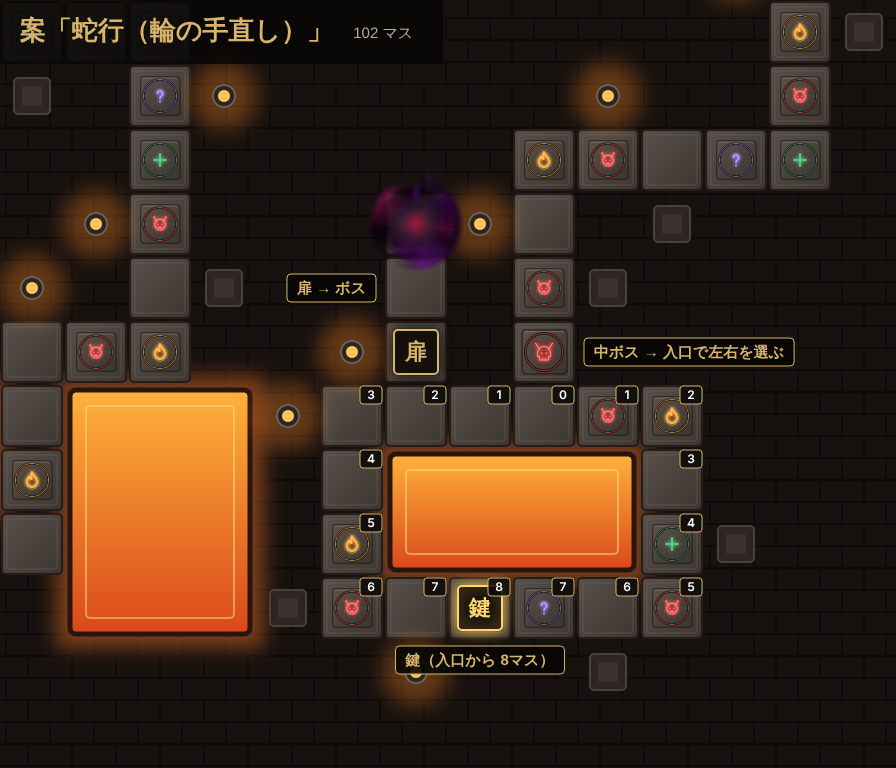
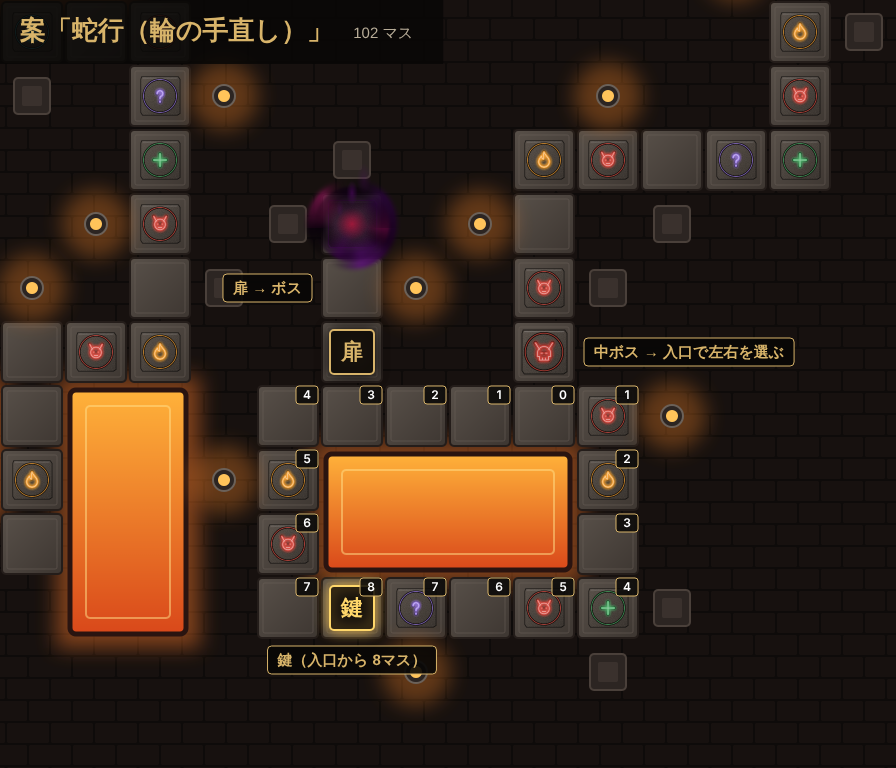
戦闘の曲を開始前の待機から流す。輪の見本を左に1マス寄せる（入口と扉の前の間を2マスに）
Claude-Session: https://claude.ai/code/session_012hkhuRjXJoxGWxPSr8xzWQ

Changed region(s): [[0.1875, 0.1875, 0.625, 0.9062], [0.625, 0.5, 0.8438, 0.8438]]

diff --git a/src/scenes/GameScene.ts b/src/scenes/GameScene.ts
@@ -116,7 +116,8 @@ export class GameScene extends Phaser.Scene {
     (window as unknown as Record<string, unknown>).__battle = this.battle;
   }
   toList() { this.base = 'list'; this.overlays = []; }
-  toReady(e: EnemyDef) { this.enemy = e; this.base = 'ready'; this.overlays = []; this.newBattle(); }
+  toReady(e: EnemyDef) { this.enemy = e; this.base = 'ready'; this.overlays = []; this.battleSeq++; this.newBattle(); }
+  private battleSeq = 0;   // 戦闘の通し番号（戦闘の曲を、新しい戦闘ごとに頭から流すため）
   pop() {
     const closed = this.overlays.pop();
     if (closed === 'equip' && this.base === 'board' && this.run) {     // 入口で装備を変えた: アイテムの枠を作り直す
@@ -646,8 +647,9 @@ export class GameScene extends Phaser.Scene {
       const step = left <= 0.5 ? 1 : left <= 1.0 ? 2 : left <= 1.5 ? 3 : 0;
       if (step && step !== this.lastTick) { this.lastTick = step; this.snd.warnTick(step); }
     }
-    // BGM: 戦闘中（ポーズ中は止める）と、すごろくの盤面の上（メニューを開いていても流す）
-    this.snd.music(this.top === 'fight' ? 'battle' : this.base === 'board' ? 'dungeon' : null, this.top === 'fight' ? bt : this.run);
+    // BGM: 戦闘は開始前の待機から流す（ポーズ中は止める）。すごろくの盤面の上（メニューを開いていても流す）
+    const fighting = this.top === 'fight' || this.base === 'ready';
+    this.snd.music(fighting ? 'battle' : this.base === 'board' ? 'dungeon' : null, fighting ? this.battleSeq : this.run);
     this.enemyShake = Math.max(0, this.enemyShake - dt);
     this.ringPulse = Math.max(0, this.ringPulse - dt);
     this.hurt = Math.max(0, this.hurt - dt);

diff --git a/docs/design.md b/docs/design.md
@@ -235,7 +235,7 @@
 - 鍵がないときの盤面の案内は「鍵まで あと N マス」。鍵を持つと「扉まで」、開けると「ボスまで」。
 - 鍵を持っている間は、盤面の上の情報に「最深部の鍵」の札を出し、鍵のマスを薄くする。全体図では、鍵と扉を金色で示す。
 - 鍵を持って分かれ目に来たときは、扉の側を選んだ状態で始める。
-- BGM: 戦闘の曲は戦闘ごとに頭から流す。ポーズ中は止める。ダンジョンの曲は、戦闘から戻ると続きから流す。開始前と結果の画面、ダンジョンの外は無音（これまでの合成の BGM は外した）。1ファイル版（`npm run page`）には曲が入らない。
+- BGM: 戦闘の曲は戦闘ごとに頭から流す（開始前の待機から。2026-11-19 に持ち主の指示で変えた）。ポーズ中は止める。ダンジョンの曲は、戦闘から戻ると続きから流す。結果の画面とダンジョンの外は無音（これまでの合成の BGM は外した）。1ファイル版（`npm run page`）には曲が入らない。
 - 扉を開けたあとのチェックポイントは扉のマスで、ボスの2マス手前。ボスに負けても、HP満タンですぐ再挑戦できる（シミュレーションでは、ボス戦開始時のHPがほぼ 100 になる）。
 
 ### 戦闘中の背景（決定済み・未実装）
@@ -260,6 +260,7 @@
 - 水の神殿・風の神殿・魔王城は「準備中」の表示だけ。
 
 ### 直前の作業
+- 2026-11-19: 戦闘の曲を、開始前の待機（START を押す前）から流すようにした（持ち主の指示）。待機中にメニューを開いても続けて流れ、戦闘ごとに頭から。
 - 2026-11-19: 音量の設定を足した（メニューと盤面のメニューの「設定」。BGM と効果音を 0〜10 で。初期値 BGM 7・効果音 10。セーブに保存し、セーブリセットでも残す）。見た目は C 柱のまま、見本は出さずに作った（`docs/samples/settings-now.png`）。戦闘中のポーズからは開けない。
 - 2026-11-19: 炎の神殿を作り直した（盤面「蛇行」102マス、輪の1周18マス、最深部の鍵と扉、案H の強さ、火柱 7）。BGM を持ち主の曲に替えた。`npm run check` が通った（単体68、通し28）。自動プレイヤーで: 上級 約9〜10分（一度も負けずに踏破 6〜18%）、普通 約11〜14分（負け 1.6〜2.4回）。
 - 2026-11-17: 返事待ちだった4件に答えをもらい、戦闘画面の見本を詰めた（D4〜D6。`docs/look.md` の4章と9章）。コードには触れていない。見本はブランチ `claude/cool-euler-7yzbaf` に push した（`main` には未反映）。
@@ -289,7 +290,7 @@
 - 次の攻撃は2段（技名を1段上）。技名は大きさ固定（24、全角8文字まで）、左詰め。枠は D3 の幅のまま。
 
 ### 返事待ち（持ち主に聞いている）
-- 炎の神殿の輪の手直し（2026-11-19 の指示。見本 `docs/samples/style-S6-board-spiral2.png`、作り方 `scripts/boards/spiral2.mjs`）: 輪 16マス、入口で左右を選ぶ、鍵は入口から 8マス、扉は輪の上辺。見本だけで、data とルールはまだ変えていない。輪の中を両向きに進めるには、ルールの変更（進む向きを覚える）が要る。1周して入口に戻ったときに向きを選び直せるかを聞いている。
+- 炎の神殿の輪の手直し（2026-11-19 の指示。見本 `docs/samples/style-S6-board-spiral2.png`、作り方 `scripts/boards/spiral2.mjs`）: 輪 16マス、入口で左右を選ぶ、鍵は入口から 8マス、扉は輪の上辺。持ち主の指示で輪を左に1マス寄せ、入口と扉の前のマスの間を2マスにした。見本だけで、data とルールはまだ変えていない。輪の中を両向きに進めるには、ルールの変更（進む向きを覚える）が要る。1周して入口に戻ったときに向きを選び直せるかを聞いている。
 
 ### 見た目
 - 見た目と動きの仕様、見本の経緯、未確定の点は `docs/look.md` にまとめた。ここには書かない。
